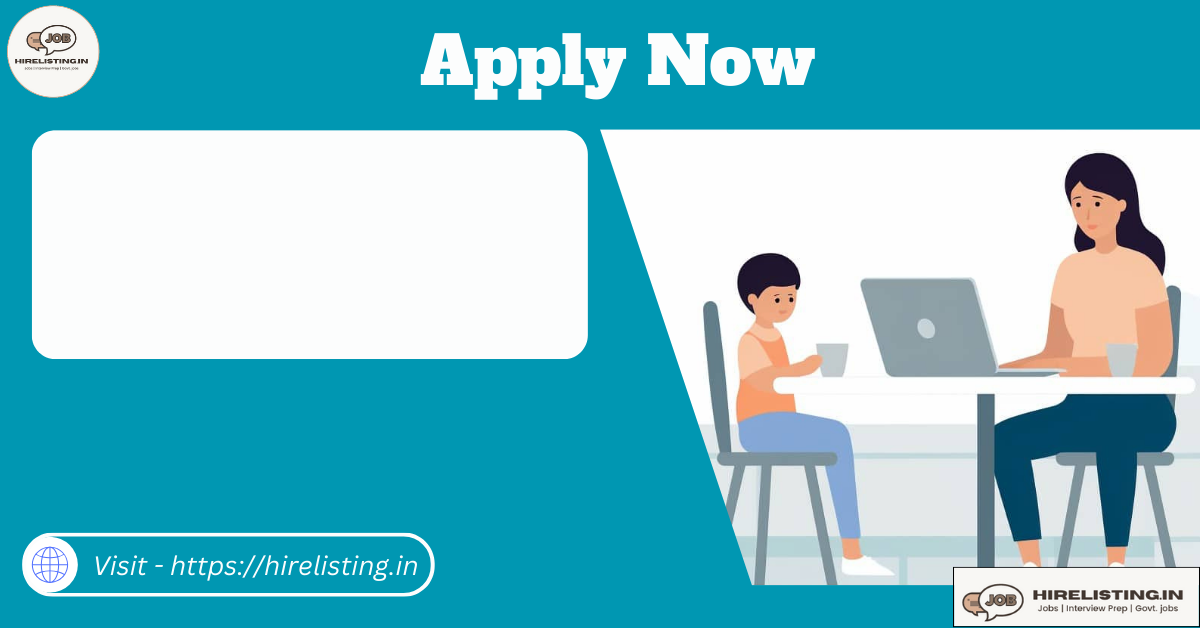
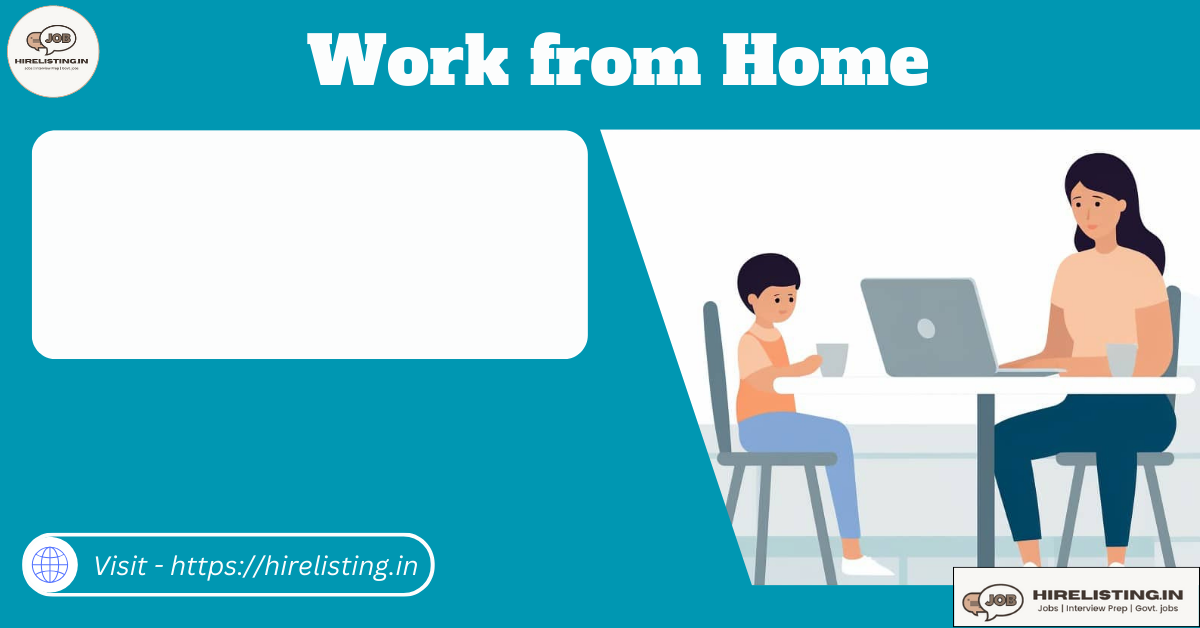
template selector added. Download csv button added.

Changed region(s): [[0.2467, 0.0303, 0.7708, 0.1815]]

diff --git a/main.py b/main.py
@@ -19,14 +19,16 @@ st.subheader("Follow these steps")
 st.markdown(
     """
     - Step 1: Input company name, job title in the given format in the text box.
-    - Step 2: Click "Generate" button to generate the featured images.
-    - Step 3: Click "Download ZIP" button to download Zip file containing the images.
+    - Step 2: Select template.
+    - Step 3: Click "Generate" button to generate the featured images.
+    - Step 4: Click "Download ZIP" button to download Zip file containing the images.
     """
 )
 
 
 date_today = datetime.today().strftime('%Y-%m-%d')
-data_str = st.text_area("Job details",value='Apple,Software Developer,\nGoogle, Human Resource Manager')
+
+data_str = st.text_area("Enter Job details",value='Apple,Software Developer,\nGoogle, Human Resource Manager')
 data_str = data_str.strip()
 if data_str[-1]==',':
     data_str = data_str[:-1]
@@ -38,6 +40,7 @@ except:
     st.markdown("Some commas are missing. Put the commas and press Ctrl+Enter.")
 # st.markdown(data_list[:,0])
 
+template_name = st.radio("Select Template",["General","WFH","Walk in"],horizontal=True)
 
 company_names = [data_list[i,0].strip() for i in range(data_list.shape[0])]
 job_positions = [data_list[i,1].strip() for i in range(data_list.shape[0])]
@@ -62,7 +65,13 @@ if button_clicked:
 
         company_name = company_name.lower()
         
-        template_number = np.random.choice([1,2,3])
+        # template_number = np.random.choice([1,2,3])
+        if template_name == "General":
+            template_number = 2
+        elif template_name == "WFH":
+            template_number = 1
+        elif template_name == "Walk in":
+            template_number = 3
 
         img1 = Image.open(os.path.join(os.getcwd(),f'featured_image_templates/featured_image_template_{template_number}.png')).convert("RGBA")
         try:
@@ -144,7 +153,7 @@ logo_url_input = st.text_input("Enter URL of logo")
 logo_url_input = logo_url_input.strip().lower()
 btn_add_company_logo = st.button("Add Company Logo URL")
 
-# Delete all generated data
+# add company logo url
 if btn_add_company_logo:
     company_logos[company_name_input] = logo_url_input
     if company_name_input != "" and logo_url_input != "":
@@ -154,6 +163,15 @@ if btn_add_company_logo:
                 writer.writerow([key, value])
     else:
         st.markdown("Enter valid company name and URL")
+
+
+# Download company logo url csv file
+with open(os.path.join(os.getcwd(),f'data/company_logo.csv'), "rb") as fp:
+        btn_download = st.download_button(
+            label="Download company logo csv",
+            data=fp,
+            file_name=f"company_logo.csv"
+        )
 
 
 
